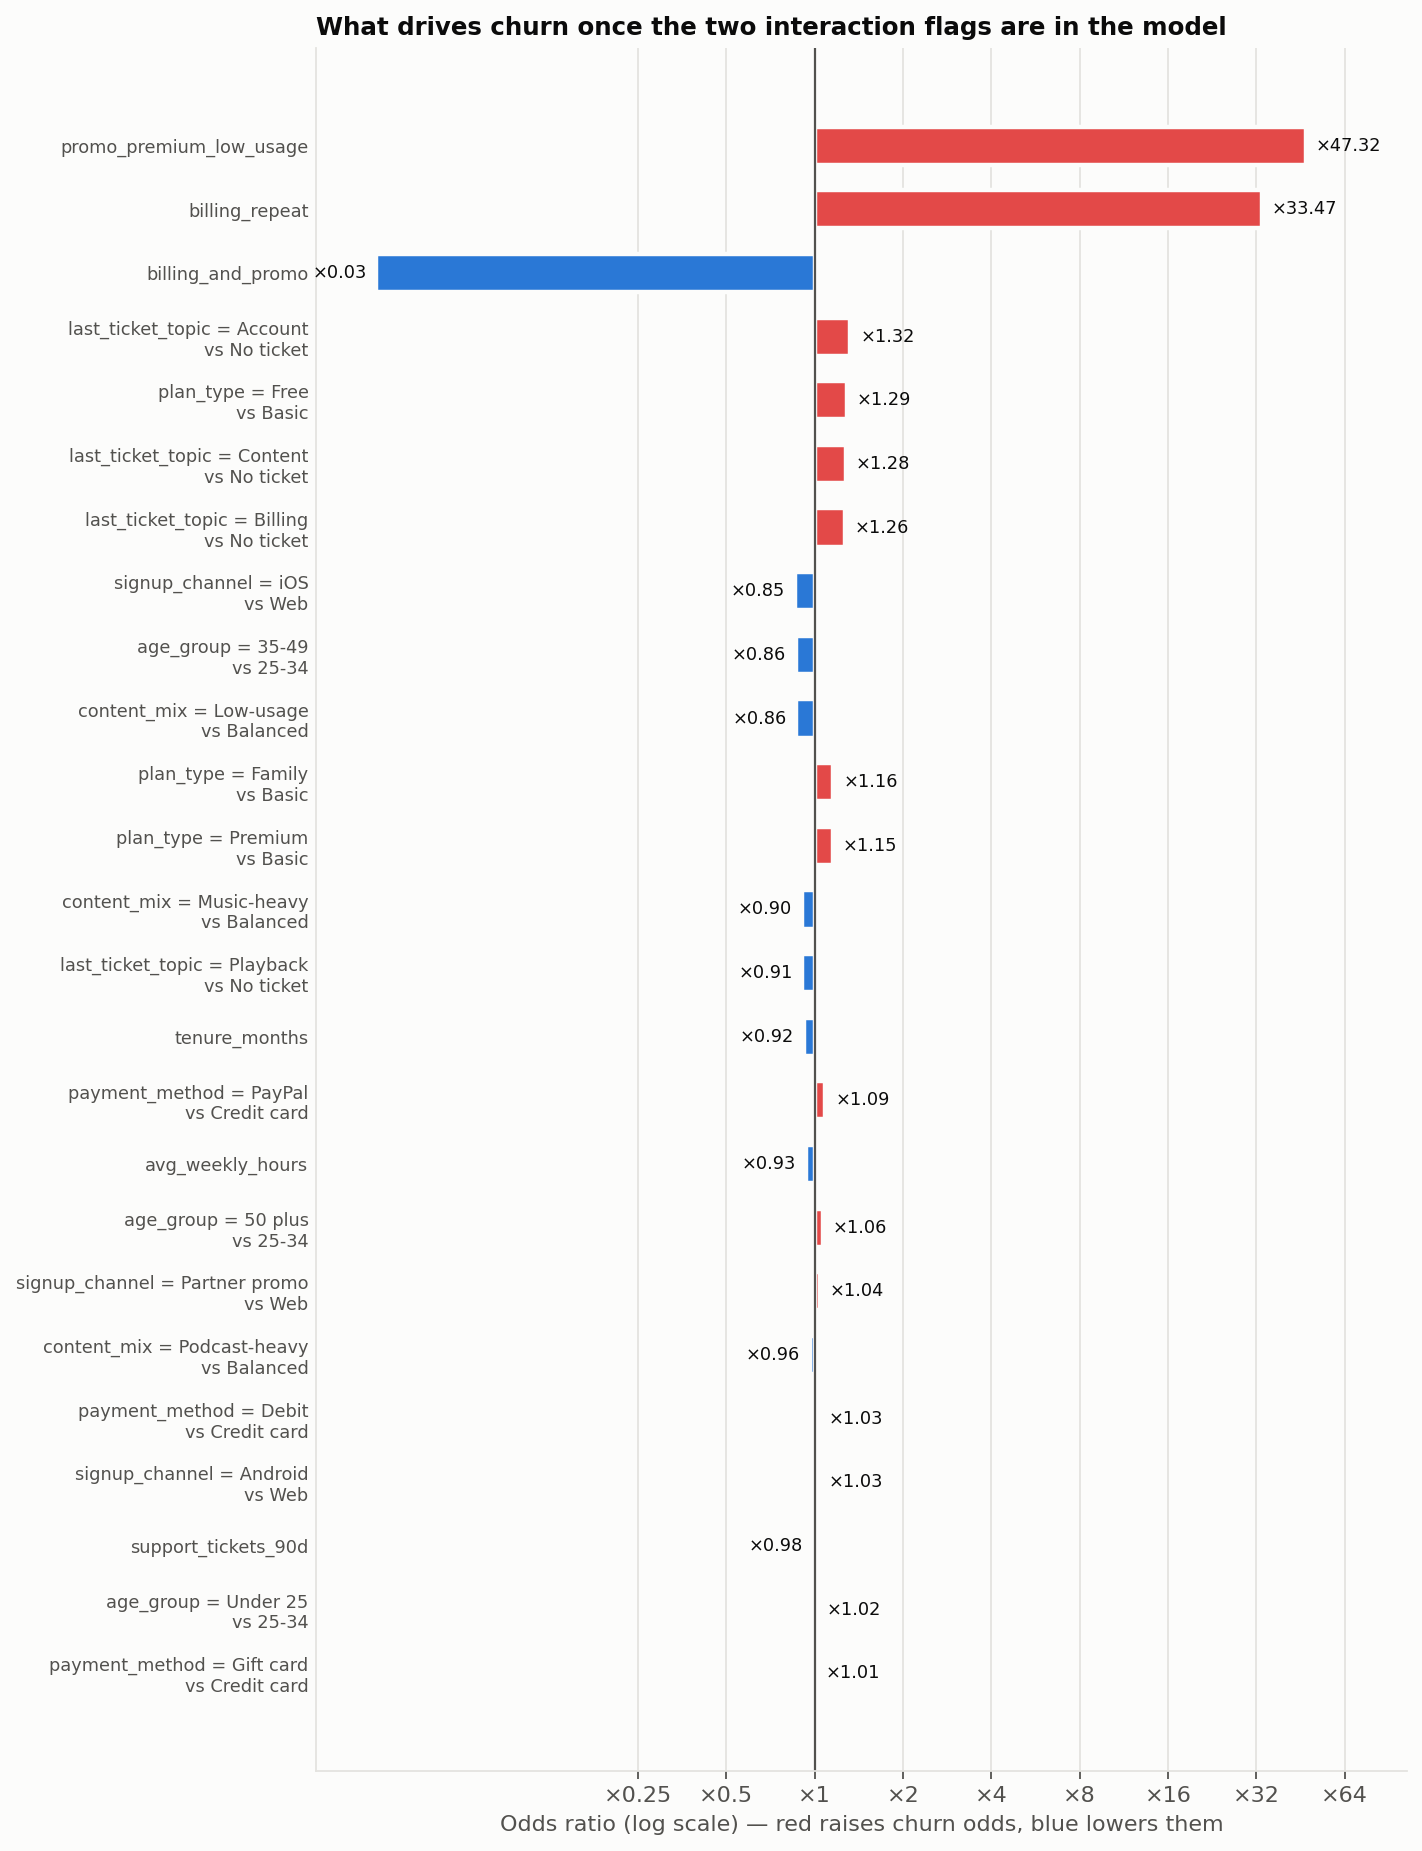
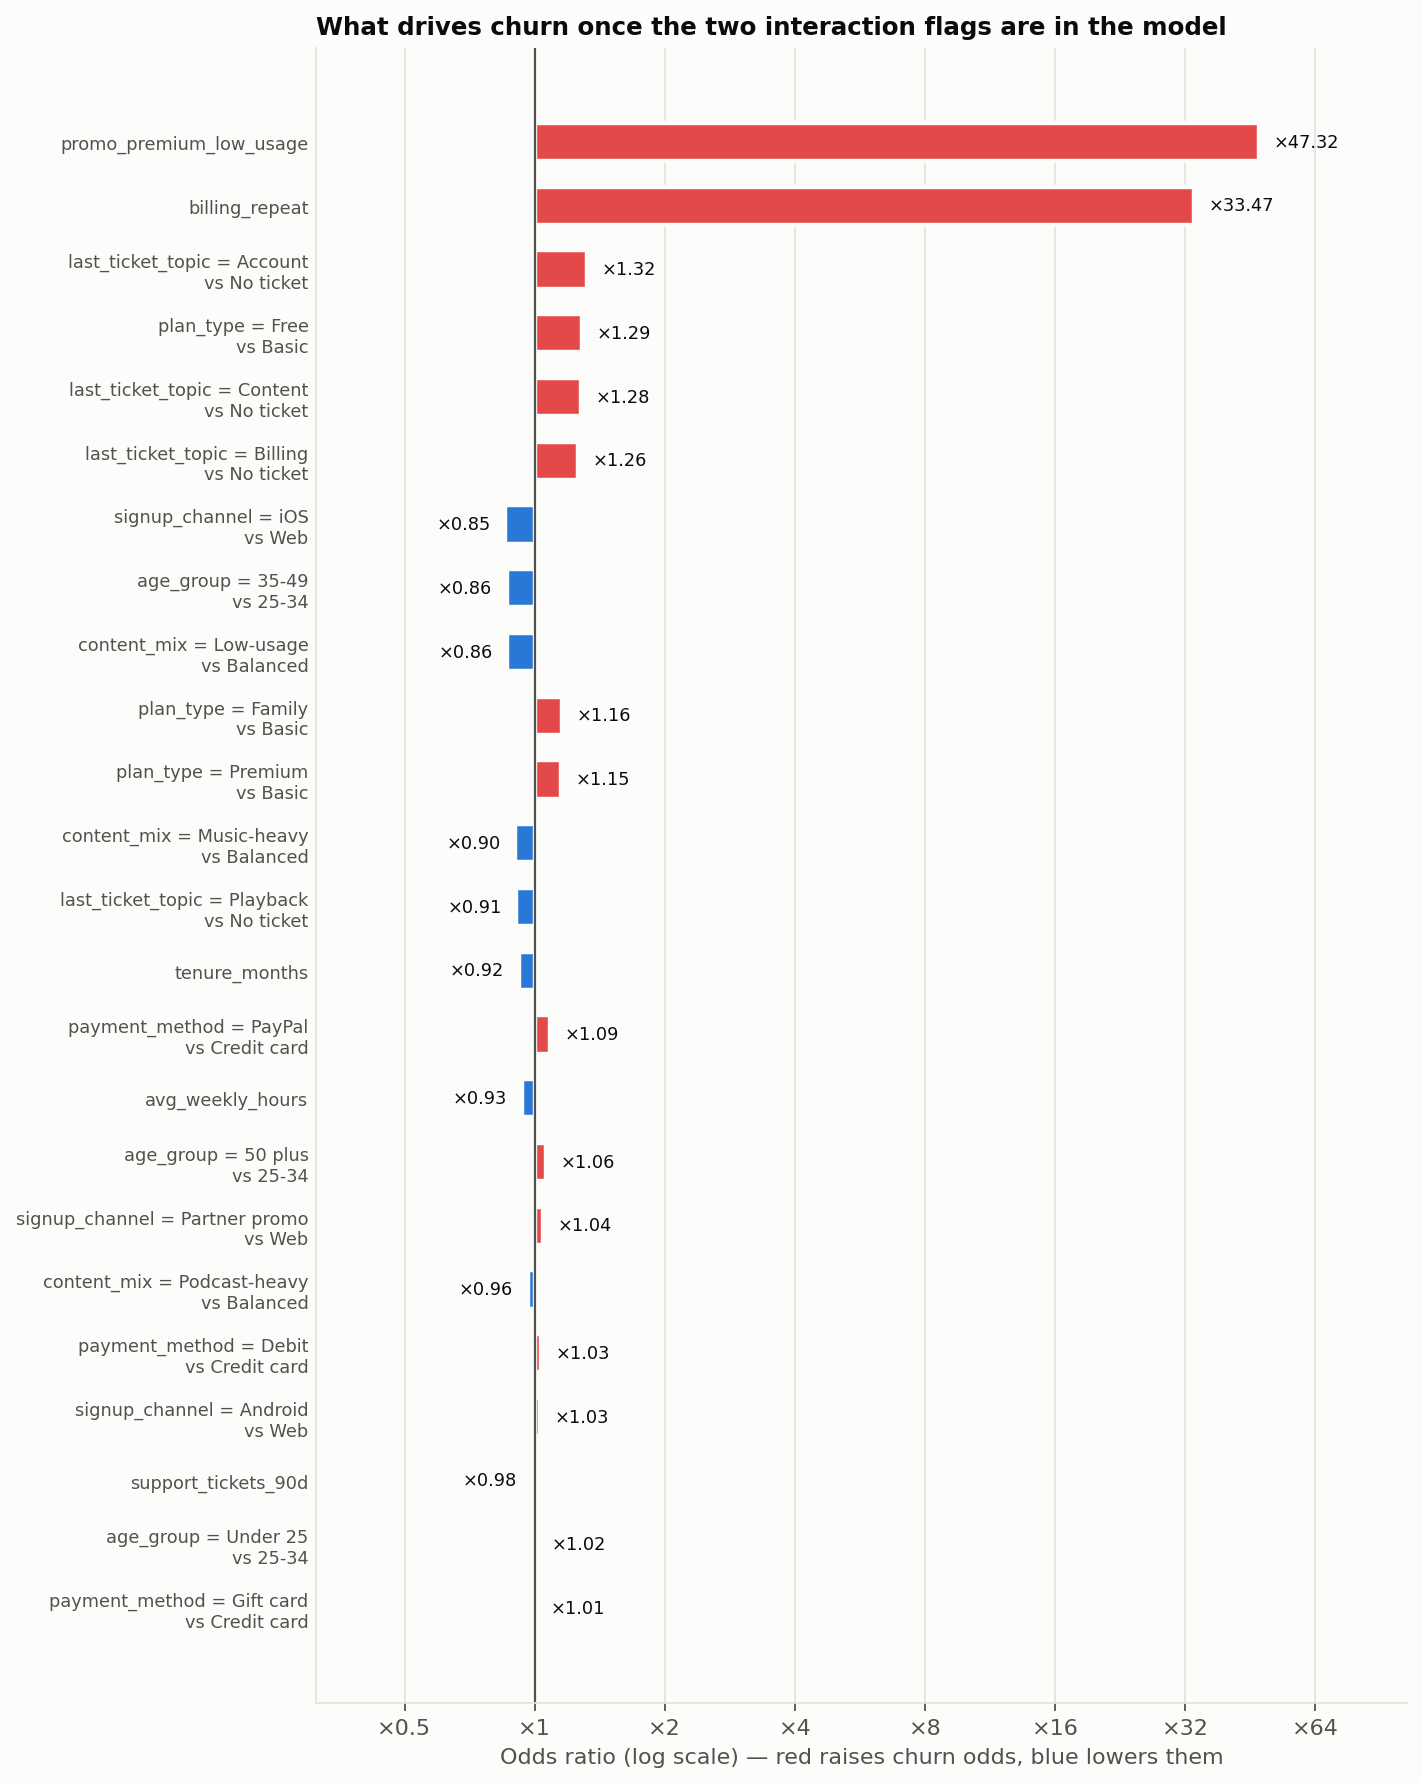
Keep billing_and_promo correction term out of churn drivers
Its standalone odds ratio (x0.03) would read as "having both risks lowers
churn". Exclude it from churn_drivers and figure 09, and explain the
overlap in the segment report caveats instead.

Claude-Session: https://claude.ai/code/session_01FqqxP1VwkZ7wBycCuNnXsW

diff --git a/train_churn_model.py b/train_churn_model.py
@@ -57,6 +57,11 @@ RISK_UP, RISK_DOWN = "#e34948", "#2a78d6"
 # purity — so every segment is large enough and different enough to act on.
 SEGMENT_TREE = dict(max_depth=3, min_samples_leaf=100,
                     min_impurity_decrease=2e-4, random_state=SEED)
+# Correction terms only exist to stop other flags double-counting. Their own
+# odds ratio (e.g. x0.03) is meaningless alone, so they're kept out of the
+# driver list and chart to avoid suggesting "having both risks lowers churn".
+CORRECTION_TERMS = {"billing_and_promo"}
+
 SHORT_LABEL = {
     "billing_repeat": "Repeat billing complaints",
     "promo_premium_low_usage": "Partner-promo Premium, low usage",
@@ -134,6 +139,8 @@ def odds_ratios(pipe):
     coefs = pipe.named_steps["model"].coef_[0]
     rows = []
     for raw, b in zip(names, coefs):
+        if raw.split("__", 1)[1] in CORRECTION_TERMS:
+            continue
         term, note = readable_term(raw)
         rows.append({"feature": term, "comparison": note,
                      "odds_ratio": round(float(np.exp(b)), 3),
@@ -407,6 +414,9 @@ def main():
             "Premium's higher raw churn rate (13% vs 7-8%) is almost entirely explained by Premium "
             "subscribers being over-represented in the partner-promo low-usage group; outside it, "
             "Premium churns like every other plan.",
+            "Subscribers with both billing_repeat and promo_premium_low_usage (28 people) churn at "
+            "~54%, not higher: the two risks overlap rather than stack. The model includes a "
+            "billing_and_promo correction term for this, which is left out of churn_drivers.",
             "Subscribers outside the high-risk segments churn at about 3%, and the model finds no "
             "further pattern there; treat that as baseline churn.",
         ],
